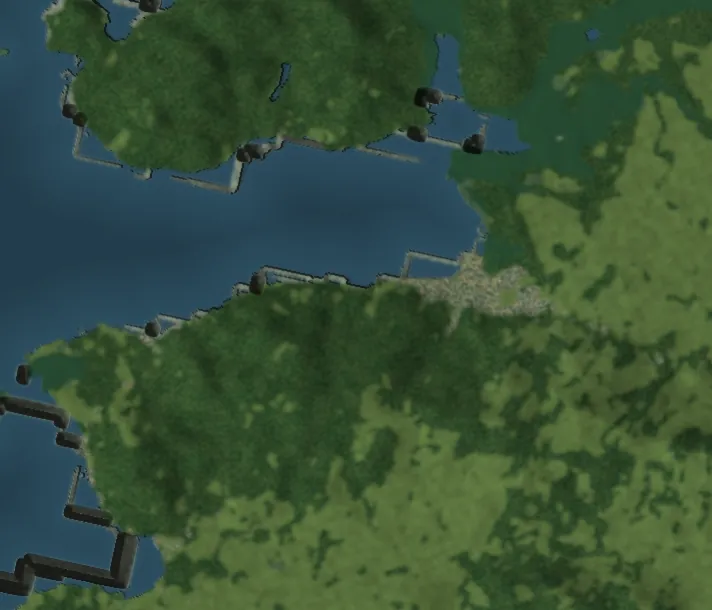
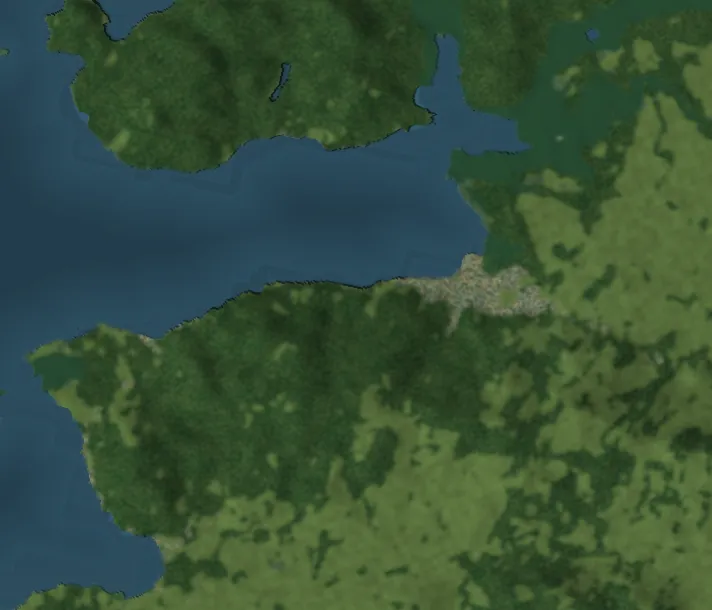
Zemljevid Portobelo: brez temnih blokov ob obali (gola tla nad morskim dnom so morje)
Claude-Session: https://claude.ai/code/session_01WbgGzubPKecpLsvQ8C4cUw

diff --git a/maketa-menija/orodja/wide_map.py b/maketa-menija/orodja/wide_map.py
@@ -31,6 +31,7 @@ RING_PX = {'monaco': 8, 'riviera': 18, 'montreal': 6, 'toronto': 8}   # (where t
 WATER_OUT = {'monaco', 'riviera', 'newcastle', 'chapman', 'toronto', 'montreal', 'detroit', 'bangsaen', 'livorno', 'mombasa', 'portobelo'}   # (the game's sea or lake is a plane far wider than the harbour: the painted land's own water is used)
 STRIP_M = {'chapman': 260, 'mombasa': 110, 'portobelo': 90}   # (a world whose own land fills the whole tile: only a strip this many metres either side of the road is the island)
 BEACH = {'bangsaen', 'mombasa', 'portobelo'}   # (a beach between the road and the sea: the island goes on to the shore there, no rim cut; the painted sea flat, no seabed in its shading)
+SEA_BARE = {'portobelo'}   # (the land cover's bare cells joined to the sea are sea: WorldCover's strips along the shore, under the seabed's depths)
 H_SMOOTH = {'rastro': 5.0, 'tianmen': 6.0, 'bangsaen': 2.0, 'balea': 6.0}   # (output pixels: where the heights are coarse for the tile's scale, their steps would show in the shading)
 THEME = {'vrsic': 'vrsic', 'pikes': 'pikes', 'ouninpohja': 'ouni', 'nring': 'nring', 'spa': 'spa', 'rbring': 'rbring', 'suzuka': 'suzuka', 'monaco': 'monaco', 'riviera': 'city'}
 # the sun of each theme (routemap_page.js: THEMES sunOff, default [-80, 96, 70]; x east, y up, z south), its strength and the sky light
@@ -113,6 +114,15 @@ def paint_land(F):
     if z is not None and 'lc' in z.files: alb, h, lc = z['alb'], z['h'], z['lc']
     else:
         alb, h, lc = _paint_land(F); os.makedirs(os.path.dirname(cache), exist_ok=True); np.savez(cache, alb=alb, h=h, lc=lc)
+    if F.tid in SEA_BARE:   # cells the land cover calls bare but the heights the seabed, joined to the water (strips by the shore): the water round them, no walls
+        wat = np.isin(lc, (0, 80)); fix = ~wat & ndimage.binary_dilation(h < 0, iterations=2) & (h < 12)
+        lab, _ = ndimage.label(lc == 60); ids = np.unique(lab[ndimage.binary_dilation(wat) & (lab > 0)]); fix |= np.isin(lab, ids[ids > 0])
+        if fix.any():
+            fix |= ndimage.binary_dilation(fix, iterations=2) & wat   # (and the painted foam round them, in the water)
+            wf = (wat & ~fix).astype(np.float32); num = lowpass(alb * wf[..., None], 24); den = lowpass(wf, 24)[..., None]   # (the water round them, smoothed: no pale shallows copied in)
+            _, (iy, ix) = ndimage.distance_transform_edt(den[..., 0] < 0.02, return_indices=True); fill = (num / np.maximum(den, 1e-3))[iy, ix]
+            alb = alb.copy(); alb[fix] = fill[fix]
+        h = np.where(fix | (h < 0), 0.0, h).astype(np.float32)
     if F.tid in BEACH: h = np.where(np.isin(lc, (0, 80)), 0.0, h).astype(np.float32)
     if F.tid in H_SMOOTH: h = ndimage.gaussian_filter(h, H_SMOOTH[F.tid])
     # the sun in the output grid's axes: x right, z down in the tile; the world's vector (sx east, sz south) turned by the tile's fit
